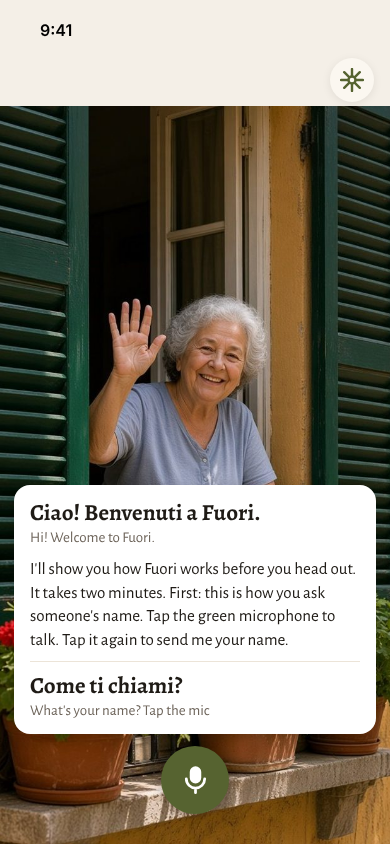
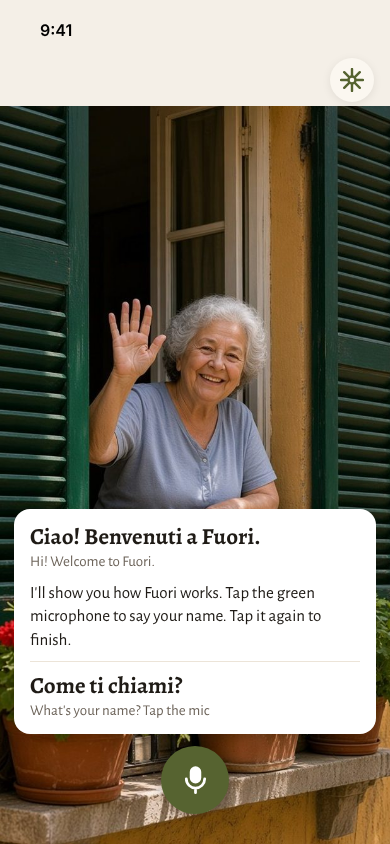
Orientation step 1: Josh's wording for the note, both countries
Josh: "I'll show you how Fuori works. Tap the green microphone to say your
name. Tap it again to finish." (Afuera's says Afuera.) Content only; the
app reads it from /v1/content. Canvas H1 and picture match. tsc passes.
Not verified on the phone. test:language already fails on
ios/.../OrientationTests.swift ("Parli italiano?" in a Swift test), from
the laptop's build, not this change.

Claude-Session: https://claude.ai/code/session_01HuSMtjsR1f1fbNVszYXEaS

Changed region(s): [[0.0308, 0.5545, 0.9846, 0.7701]]

diff --git a/content/es-mx/onboarding.ts b/content/es-mx/onboarding.ts
@@ -48,7 +48,7 @@ export const onboarding = {
     hello: {
       line: '¡Hola! Bienvenidos a Afuera.',
       en: 'Hi! Welcome to Afuera.',
-      note: "I'll show you how Afuera works before you head out. It takes two minutes. First: this is how you ask someone's name. Tap the green microphone to talk. Tap it again to send me your name.",
+      note: "I'll show you how Afuera works. Tap the green microphone to say your name. Tap it again to finish.",
     },
     askName: { line: '¿Cómo te llamas?', en: "What's your name? Tap the mic" },
     niceToMeet: {

diff --git a/content/it/onboarding.ts b/content/it/onboarding.ts
@@ -50,7 +50,7 @@ export const onboarding = {
     hello: {
       line: 'Ciao! Benvenuti a Fuori.',
       en: 'Hi! Welcome to Fuori.',
-      note: "I'll show you how Fuori works before you head out. It takes two minutes. First: this is how you ask someone's name. Tap the green microphone to talk. Tap it again to send me your name.",
+      note: "I'll show you how Fuori works. Tap the green microphone to say your name. Tap it again to finish.",
     },
     askName: { line: 'Come ti chiami?', en: "What's your name? Tap the mic" },
     niceToMeet: {

diff --git a/docs/orientation-script.md b/docs/orientation-script.md
@@ -12,7 +12,7 @@
 
 **Mock-ups (2026-10-23):** canvas "Reply buttons", row H; pictures in `design/orientation/H1.png` to `H7.png`. No Skip or step count in the bar (Josh); her full picture while she sets you up (all of them).
 
-**Built, steps 1–3 (laptop, 2026-10-23), with Josh's edits:** H1's note ends "Tap the green microphone to talk. Tap it again to send me your name." and her question reads "What's your name? Tap the mic" (onboarding keeps tap to talk, tap to send); H2's buttons are **Benvenuto** (Masculine) and **Benvenuta** (Feminine); H3 unchanged, and the level picked is the learner's level, shown and changed in Settings (`POST /v1/me/level`; the Settings picker is live). **No Skip and no step count in the bar** (Josh). With the mic off, step 1 offers to go on without a name. Lines in `content/<country>/onboarding.ts` → `orientation`; the app uses the tour when the server sends them, else today's onboarding. After step 3, Avanti goes to the city list until steps 4–7 are built (the tour is now 7 cards: Josh dropped the circle, talking-with-characters, cities and places beats, "you can cut 5 & 6 and not lose anything", and folded Learn into one help card, 2026-10-23).
+**Built, steps 1–3 (laptop, 2026-10-23), with Josh's edits:** H1's note is "I'll show you how Fuori works. Tap the green microphone to say your name. Tap it again to finish." (Josh, 2026-10-23) and her question reads "What's your name? Tap the mic" (onboarding keeps tap to talk, tap to send); H2's buttons are **Benvenuto** (Masculine) and **Benvenuta** (Feminine); H3 unchanged, and the level picked is the learner's level, shown and changed in Settings (`POST /v1/me/level`; the Settings picker is live). **No Skip and no step count in the bar** (Josh). With the mic off, step 1 offers to go on without a name. Lines in `content/<country>/onboarding.ts` → `orientation`; the app uses the tour when the server sends them, else today's onboarding. After step 3, Avanti goes to the city list until steps 4–7 are built (the tour is now 7 cards: Josh dropped the circle, talking-with-characters, cities and places beats, "you can cut 5 & 6 and not lose anything", and folded Learn into one help card, 2026-10-23).
 
 **More of a mix (Josh, 2026-10-23: "Maybe more of a mix of Italian and English?"):** every card opens with one short Italian line and its English, then the explanation in English. The Italian lines are simple and come back in the game. Buttons to move on say *Avanti*. Lines on the mock-ups:
 
